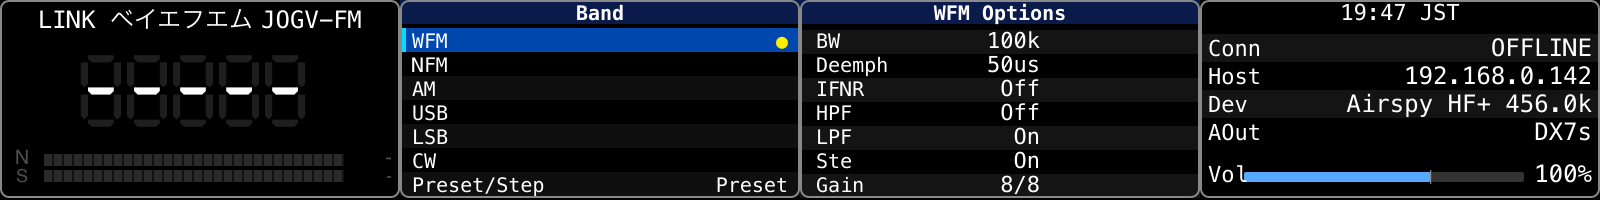
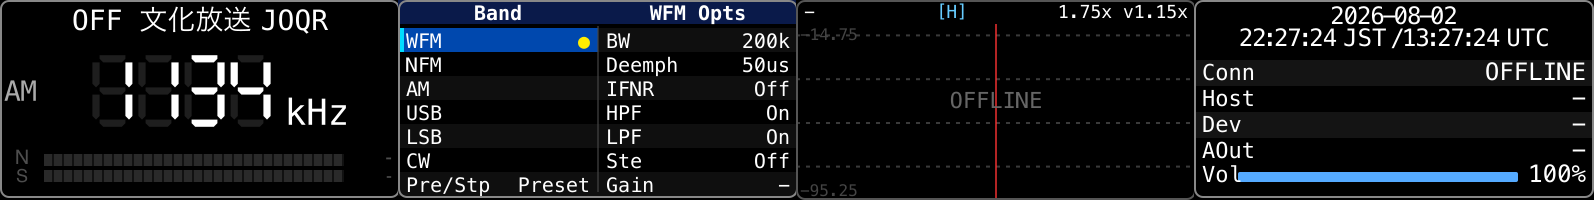
docs: refresh offline composite (master OFF) and correct the offline copy
- lcd-combined-offline.png: recaptured in the master-OFF state with the
  two-line clock Volume panel (was the May LINK-drop capture with the
  old HH:MM clock).
- dial-layouts.md: distinguish the two offline renders (link drop =
  LINK prefix + dashed 7-seg; master OFF = OFF prefix, freq kept) and
  fix the tally description — ONLINE is the red state, OFFLINE renders
  plain.

diff --git a/docs/dial-layouts.md b/docs/dial-layouts.md
@@ -6,9 +6,9 @@ Each registered Stream Deck action — encoder dials, the existing keypad button
 
 ## Offline / disconnected state
 
-When the SpyServer connection drops (cable pull, server reboot, master OFF), every dial dims and signals `LINK` / `OFFLINE`. The Tune dial swaps its 7-seg digits for dashes and prefixes the header with `LINK` (last station name kept so the user can see what they were on); Status panel switches `Conn` to red `OFFLINE`; meters drop to zero / `-`. State cache (Host, Dev, AOut, last freq + mode) is preserved so the reconnect is seamless — the plugin auto-reconnects, all values snap back.
+When the SpyServer connection drops (cable pull, server reboot), every dial dims and signals `OFFLINE`: the Tune dial swaps its 7-seg digits for dashes and prefixes the header with `LINK` (last station name kept so the user can see what they were on). Master OFF (2 s long-press) renders the same `OFFLINE` panels but prefixes the Tune header with `OFF` and keeps the last freq on the 7-seg. In both cases the Status panel drops the red `ONLINE` tally to plain `OFFLINE` and the meters fall to zero / `-`. State cache (Host, Dev, AOut, last freq + mode) is preserved so the reconnect is seamless — the plugin auto-reconnects (or master ON), all values snap back.
 
-![Deck RX — offline state composite](lcd-combined-offline.png)
+![Deck RX — offline composite (master OFF)](lcd-combined-offline.png)
 
 ## Deck RX Tune (keypad button)
 
